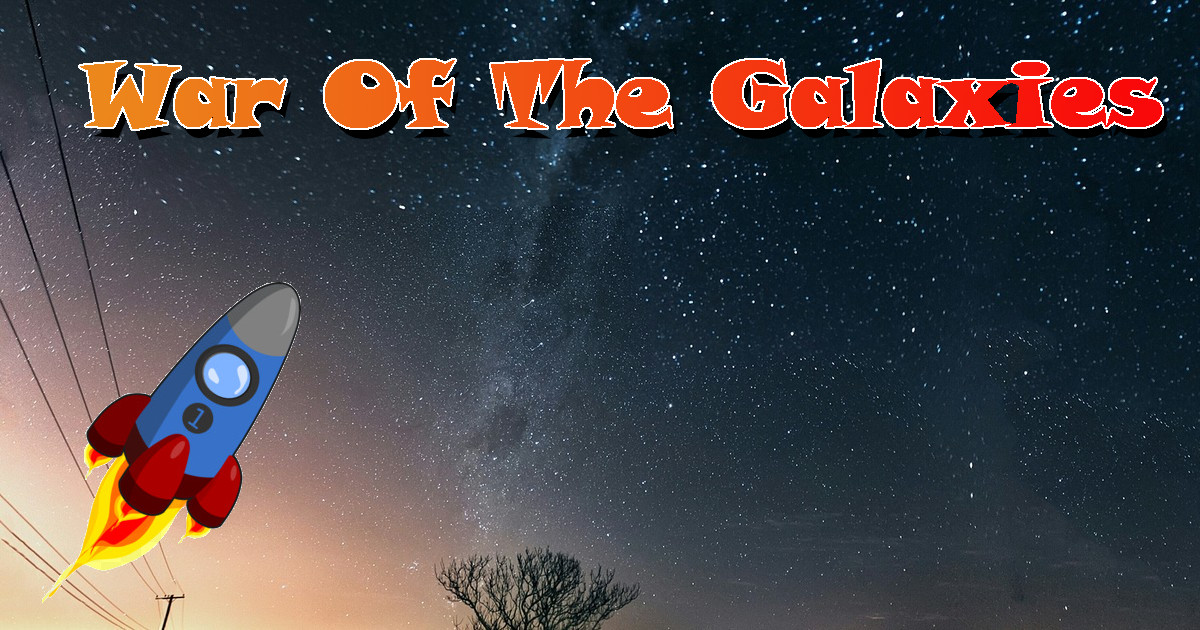
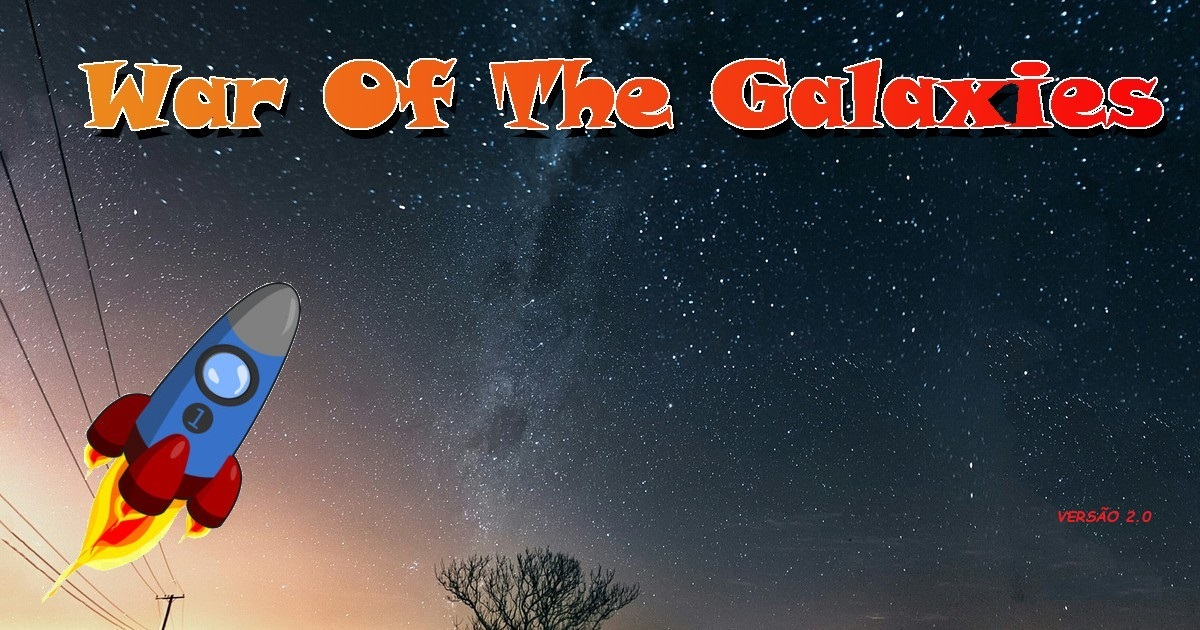
ajustes

diff --git a/War Of The Galaxies/src/main/java/Jogo/JanelaCadastro.java b/War Of The Galaxies/src/main/java/Jogo/JanelaCadastro.java
@@ -43,7 +43,6 @@ public class JanelaCadastro extends JPanel implements MouseListener {
 	private JLabel desenvolvedor4;
 	private JLabel versao;
 	
-
 	private JTextField txtNome;
 	private JTable tabela;
 
@@ -84,25 +83,46 @@ public class JanelaCadastro extends JPanel implements MouseListener {
 		}
 	}
 
-	public void mouseEntered(MouseEvent arg0) {
-		// TODO Auto-generated method stub
-
+	public void mouseEntered(MouseEvent e) {
+		if (e.getSource() == btnNovoJogo) {
+			btnNovoJogo.setBackground(new Color(180, 230, 230));
+		}
+		else if (e.getSource() == btnRecords) {
+			btnRecords.setBackground(new Color(180, 230, 230));
+		}
+		else if (e.getSource() == btnInfo) {
+			btnInfo.setBackground(new Color(180, 230, 230));
+		}
+		else if (e.getSource() == btnEntrar) {
+			btnEntrar.setBackground(new Color(180, 230, 230));
+		}
+		else if (e.getSource() == btnVoltar) {
+			btnVoltar.setBackground(new Color(180, 230, 230));
+		}
+		
 	}
 
-	public void mouseExited(MouseEvent arg0) {
-		// TODO Auto-generated method stub
-
+	public void mouseExited(MouseEvent e) {
+		JButton botaoCor = new JButton(); // criado botão só para colocar a cor original. Verificar outro forma
+		if (e.getSource() == btnNovoJogo) {
+			btnNovoJogo.setBackground(botaoCor.getBackground());
+		}
+		if (e.getSource() == btnRecords) {
+			btnRecords.setBackground(botaoCor.getBackground());
+		}
+		if (e.getSource() == btnInfo) {
+			btnInfo.setBackground(botaoCor.getBackground());
+		}
+		if (e.getSource() == btnEntrar) {
+			btnEntrar.setBackground(botaoCor.getBackground());
+		}
+		if (e.getSource() == btnVoltar) {
+			btnVoltar.setBackground(botaoCor.getBackground());
+		}
 	}
 
-	public void mousePressed(MouseEvent arg0) {
-		// TODO Auto-generated method stub
-
-	}
-
-	public void mouseReleased(MouseEvent arg0) {
-		// TODO Auto-generated method stub
-
-	}
+	public void mousePressed(MouseEvent e) 		{ }
+	public void mouseReleased(MouseEvent e)  	{ }
 
 	public boolean isCadastroFase() {
 		return cadastroFase;
@@ -138,19 +158,18 @@ public class JanelaCadastro extends JPanel implements MouseListener {
 		btnEntrar = new JButton("Entrar");
 		btnEntrar.setBounds(100, 100, 100, 100);
 		btnEntrar.setVisible(false);
-		
-		
+
 		desenvol = new JLabel("DESENVOLVEDORES");
 		desenvolvedor1 = new JLabel("FABIANO ALBINO FERREIRA");
 		desenvolvedor2 = new JLabel("HELTON CARLOS DE MOURA");
 		desenvolvedor3 = new JLabel("JONATHAN GOMES DOS SANTOS");
 		desenvolvedor4 = new JLabel("VALDECIR MUNHAM JUNIOR");
-		
+
 		Font fonteVersao = new Font("arial", Font.BOLD, 15);
 		versao = new JLabel("Versão 2.0");
 		versao.setFont(fonteVersao);
 		versao.setForeground(Color.RED);
-		
+
 		txtNome = new JTextField();
 		txtNome.setVisible(false);
 		txtNome.setBounds(10, 10, 10, 10);
@@ -203,13 +222,6 @@ public class JanelaCadastro extends JPanel implements MouseListener {
 		regras.weightx = 5;
 		regras.insets = new Insets(420, 270, 0, 270);
 		add(btnVoltar, regras);
-		
-		regras.anchor = GridBagConstraints.SOUTH;
-		regras.gridx = 1;
-		regras.gridy = 1;
-		regras.weightx = 5;
-		regras.insets = new Insets(0, 0, -190, 20);
-		add(versao, regras);
 
 		regras.fill = GridBagConstraints.HORIZONTAL;
 		regras.gridx = 1;
@@ -220,71 +232,64 @@ public class JanelaCadastro extends JPanel implements MouseListener {
 		add(txtNome, regras);
 	}
 
-	public void desenvolvedores(boolean visivel) {		
+	public void desenvolvedores(boolean visivel) {
 		GridBagConstraints regras = new GridBagConstraints();
 		Font fonte = new Font("arial", Font.BOLD, 20);
 
 		desenvol.setFont(fonte);
 		desenvol.setForeground(new Color(255, 140, 0));
 		desenvol.setVisible(visivel);
-		
+
 		regras.anchor = GridBagConstraints.CENTER;
 		regras.weightx = 4;
 		regras.gridx = 1;
 		regras.gridy = 1;
 		regras.insets = new Insets(0, 200, 180, 200);
 		add(desenvol, regras);
-		
+
 		desenvolvedor1.setFont(fonte);
 		desenvolvedor1.setForeground(new Color(255, 140, 0));
 		desenvolvedor1.setVisible(visivel);
-        
+
 		regras.anchor = GridBagConstraints.CENTER;
 		regras.weightx = 4;
 		regras.gridx = 1;
 		regras.gridy = 1;
 		regras.insets = new Insets(0, 200, 100, 200);
 		add(desenvolvedor1, regras);
-        
+
 		desenvolvedor2.setFont(fonte);
 		desenvolvedor2.setForeground(new Color(255, 140, 0));
 		desenvolvedor2.setVisible(visivel);
-		
+
 		regras.anchor = GridBagConstraints.CENTER;
 		regras.weightx = 4;
 		regras.gridx = 1;
 		regras.gridy = 1;
 		regras.insets = new Insets(0, 200, 60, 200);
 		add(desenvolvedor2, regras);
-        
+
 		desenvolvedor3.setFont(fonte);
 		desenvolvedor3.setForeground(new Color(255, 140, 0));
 		desenvolvedor3.setVisible(visivel);
-		
+
 		regras.anchor = GridBagConstraints.CENTER;
 		regras.weightx = 4;
 		regras.gridx = 1;
 		regras.gridy = 1;
 		regras.insets = new Insets(0, 200, 20, 200);
 		add(desenvolvedor3, regras);
-        
+
 		desenvolvedor4.setFont(fonte);
 		desenvolvedor4.setForeground(new Color(255, 140, 0));
 		desenvolvedor4.setVisible(visivel);
-		
+
 		regras.anchor = GridBagConstraints.CENTER;
 		regras.weightx = 4;
 		regras.gridx = 1;
 		regras.gridy = 1;
 		regras.insets = new Insets(0, 200, -20, 200);
 		add(desenvolvedor4, regras);
-		
-		regras.anchor = GridBagConstraints.SOUTH;
-		regras.gridx = 1;
-		regras.gridy = 1;
-		regras.weightx = 5;
-		regras.insets = new Insets(0, -10, 0, 20);
-		add(versao, regras);
 	}
 
 	@SuppressWarnings("deprecation")
